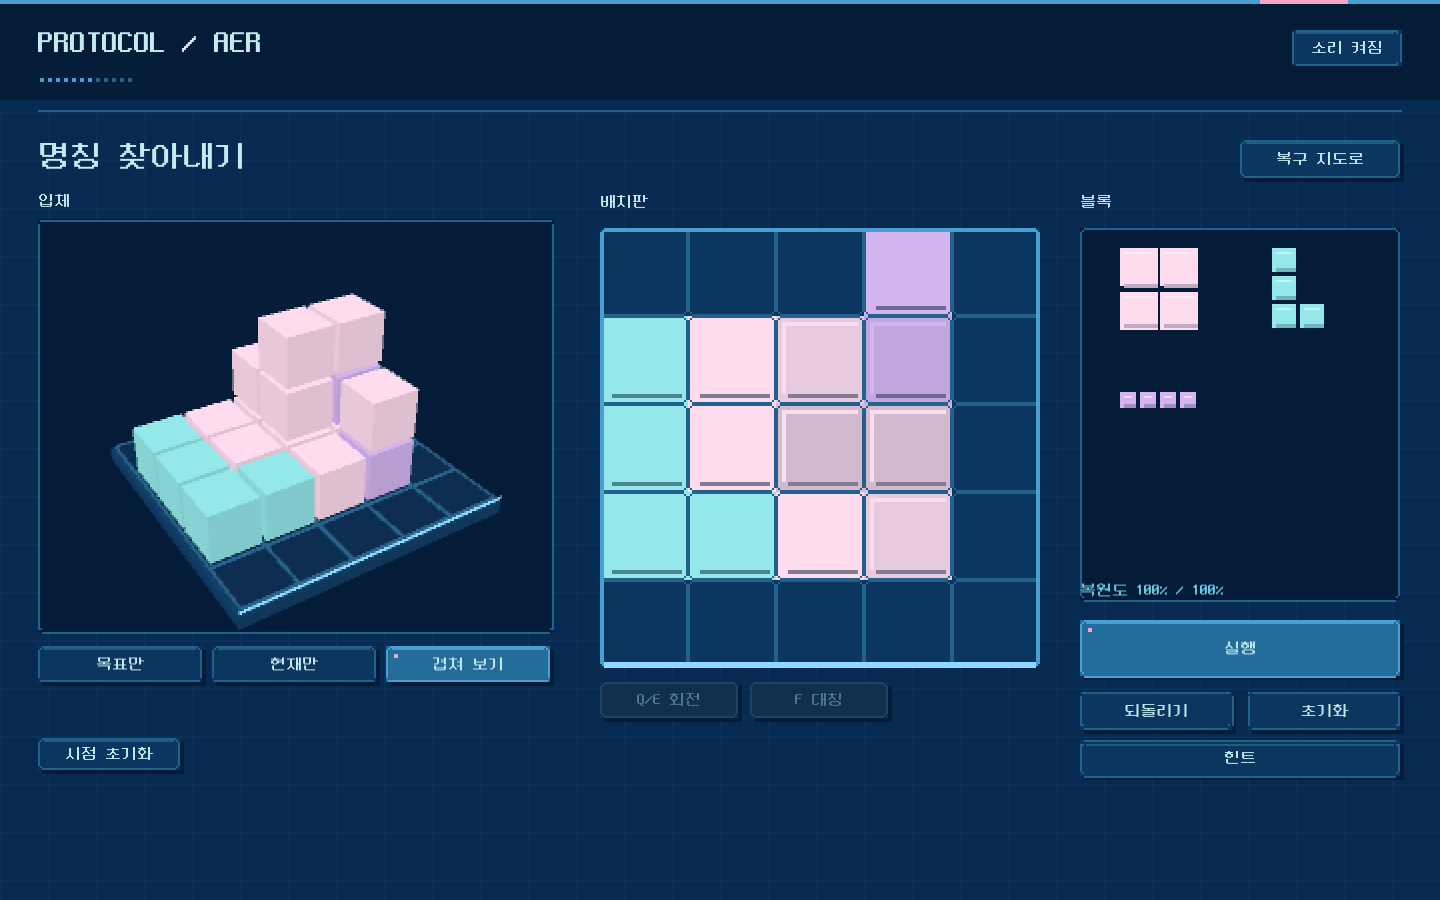
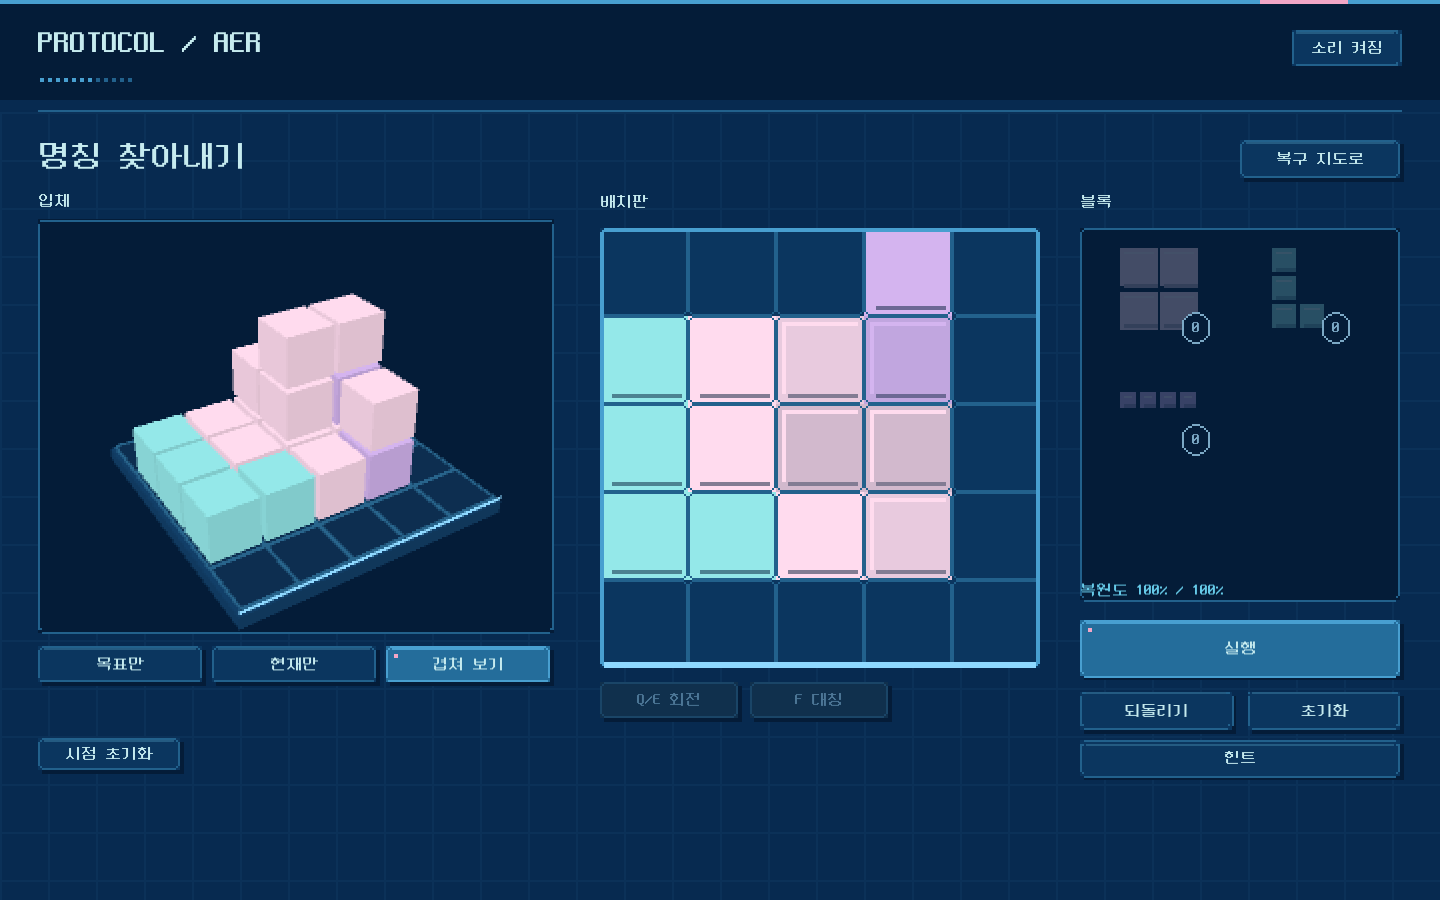
Limit non-weather mino stock and display remaining counts in pixel badges

Changed region(s): [[0.75, 0.2489, 0.8438, 0.3733], [0.875, 0.28, 0.9375, 0.3733], [0.7812, 0.4356, 0.8438, 0.4978]]

diff --git a/Assets/Scripts/ProtocolAer.cs b/Assets/Scripts/ProtocolAer.cs
@@ -148,6 +148,8 @@ public sealed class ProtocolAer:MonoBehaviour
     }
     string Lesson()=>stageIndex<3?new[]{"블록을 클릭한 뒤 배치판을 클릭하세요.","같은 칸에 겹치면 높아집니다.","겹침으로 목표 모양을 만드세요."}[stageIndex]:Stage.Weather?"복원도 "+Stage.ClearPercent+"% 이상":"";
     static Rect TrayBlock(int index)=>new Rect(1119+(index%2)*139,249+(index/2)*112,84,84);
+    int RemainingStock(int action)=>Stage.LimitedSupply?Math.Max(0,Stage.Remaining(board,action)-(held==action?1:0)):-1;
+    static Rect TrayHit(int index){var r=TrayBlock(index);return new Rect(r.x-2,r.y-2,r.width+14,r.height+14);}
     List<int> TrayActions()
     {
         var result=new List<int>();foreach(int action in new[]{4,3,2,1,0})if(Stage.Allows(action))result.Add(action);return result;
@@ -155,12 +157,12 @@ public sealed class ProtocolAer:MonoBehaviour
     bool TrySelectBlockAt(Vector2 point)
     {
         if(screen!=ScreenMode.Puzzle||executing||success||newMino>=0)return false;
-        var actions=TrayActions();for(int i=0;i<actions.Count;i++)if(TrayBlock(i).Contains(point)){Select(actions[i]);return held>=0;}
+        var actions=TrayActions();for(int i=0;i<actions.Count;i++)if(TrayHit(i).Contains(point)){Select(actions[i]);return held>=0;}
         return false;
     }
     void Select(int action=4)
     {
-        if(executing||success||newMino>=0||!Stage.Allows(action))return;
+        if(executing||success||newMino>=0||!Stage.CanPlace(board,action))return;
         ClearHint();held=action;orientation=(Vector2Int[])EveningBoard.Shapes[action].Clone();anchorIndex=0;
         if(viewMode==0)viewMode=2;Rebuild();Sound();message="";
     }
@@ -168,7 +170,7 @@ public sealed class ProtocolAer:MonoBehaviour
     bool Place()
     {
         if(held<0)return false;
-        if(!Stage.Allows(held)||!board.TryPlace(held,Candidate(),out _)){ReturnHeld();Sound();message="";return false;}
+        if(!Stage.CanPlace(board,held)||!board.TryPlace(held,Candidate(),out _)){ReturnHeld();Sound();message="";return false;}
         held=-1;ClearHint();evaluated=restored=false;Sound();Rebuild();message="";return true;
     }
     void ClearHint(){hint=-1;hintPieceId=-1;}
@@ -253,7 +255,7 @@ public sealed class ProtocolAer:MonoBehaviour
     }
     Vector2Int[] ValidPreviewCells()
     {
-        if(screen!=ScreenMode.Puzzle||held<0||!onGrid||executing||success||newMino>=0||!Stage.Allows(held))return null;
+        if(screen!=ScreenMode.Puzzle||held<0||!onGrid||executing||success||newMino>=0||!Stage.CanPlace(board,held))return null;
         var cells=Candidate();return EveningBoard.ValidCells(cells)?cells:null;
     }
     void RefreshPlacementPreview()
@@ -546,14 +548,32 @@ public sealed class ProtocolAer:MonoBehaviour
         {
             var shape=TrayBlock(i);bool selected=held==actions[i];
             DrawMino(shape,actions[i],selected);
+            if(Stage.LimitedSupply&&Stage.Remaining(board,actions[i])==0)Fill(shape,new Color(Deep.r,Deep.g,Deep.b,.75f));
             if(selected)Border(new Rect(shape.x-6,shape.y-6,96,96),Ink,4);
-            if(shape.Contains(Pointer())&&!executing&&!success)Border(new Rect(shape.x-4,shape.y-4,92,92),Sky);
+            if(TrayHit(i).Contains(Pointer())&&!executing&&!success&&Stage.CanPlace(board,actions[i]))Border(new Rect(shape.x-4,shape.y-4,92,92),Sky);
+            if(Stage.LimitedSupply)DrawStockBadge(new Rect(shape.xMax-22,shape.yMax-20,32,32),RemainingStock(actions[i]));
         }
         Text(new Rect(1080,575,320,29),"복원도 "+Stage.Similarity(board)+"% / "+Stage.ClearPercent+"%",18,Blue,true);
         if(Button(new Rect(1080,620,320,57),executing?"실행 중…":"실행",!executing&&!success&&held<0&&board.Pieces.Count>0,true))Execute();
         if(Button(new Rect(1080,691,153,38),"되돌리기",board.Pieces.Count>0&&!executing&&!success))Undo();
         if(Button(new Rect(1247,691,153,38),"초기화",!executing&&!success))ResetBoard();
         if(Button(new Rect(1080,741,320,36),"힌트",!executing&&!success))RequestHint();
+    }
+    void PixelDisc(Rect r,Color color)
+    {
+        float radius=r.width/2;
+        for(float row=0;row<r.height;row+=2)
+        {
+            float dy=row+1-radius,half=Mathf.Floor(Mathf.Sqrt(Mathf.Max(0,radius*radius-dy*dy))/2)*2;
+            if(half>0)Fill(new Rect(r.center.x-half,r.y+row,half*2,2),color);
+        }
+    }
+    void DrawStockBadge(Rect r,int count)
+    {
+        r.x=Snap(r.x);r.y=Snap(r.y);
+        PixelDisc(r,count==0?Muted:Ink);
+        PixelDisc(new Rect(r.x+2,r.y+2,r.width-4,r.height-4),Deep);
+        Text(new Rect(r.x,r.y-1,r.width,r.height),count.ToString(),16,count==0?Muted:Color.white,true,TextAnchor.MiddleCenter);
     }
     void DrawMino(Rect area,int action,bool selected=false)
     {
@@ -724,6 +744,36 @@ public sealed class ProtocolAer:MonoBehaviour
         EnterStage(0);
         Debug.Log("AER_HINTS_PASSED: all 13 stages solved through production hints/click anchors; rotation and S/T types; duplicate placements; wrong-plan correction; undo; S-free wind rejected");
     }
+    IEnumerator CheckStockInteraction(string directory)
+    {
+        EnterStage(1);newMino=-1;
+        if(RemainingStock(4)!=2)throw new Exception("Initial finite stock incorrect");
+        yield return Shot(directory,"stock-initial");
+        Select(4);if(RemainingStock(4)!=1)throw new Exception("Holding must reserve one stock");
+        ReturnHeld();if(RemainingStock(4)!=2)throw new Exception("Returning must restore stock");
+        for(int i=0;i<2;i++){Select(4);hover=new Vector2Int(1,1);if(!Place())throw new Exception("Finite stock placement failed");}
+        if(RemainingStock(4)!=0||Stage.CanPlace(board,4))throw new Exception("Stock did not exhaust");
+        TrySelectBlockAt(TrayBlock(0).center);if(held>=0)throw new Exception("Exhausted tray must not select");
+        yield return Shot(directory,"stock-exhausted");
+        // Also reject a stale held selection at the production placement gate.
+        held=4;orientation=(Vector2Int[])EveningBoard.Shapes[4].Clone();anchorIndex=0;hover=new Vector2Int(1,1);
+        if(Place()||board.Count(4)!=2||held>=0)throw new Exception("Finite stock placement overflow");
+        PickUpAt(new Vector2Int(1,1));
+        if(board.Count(4)!=1||held!=4||RemainingStock(4)!=0)throw new Exception("Picking up must transfer, not duplicate, stock");
+        yield return Shot(directory,"stock-moving");
+        hover=new Vector2Int(2,1);if(!Place()||board.Count(4)!=2||RemainingStock(4)!=0)throw new Exception("Moving consumed extra stock");
+        PickUpAt(new Vector2Int(1,1));hover=new Vector2Int(4,4);
+        if(Place()||held>=0||board.Count(4)!=1||RemainingStock(4)!=1)throw new Exception("Invalid placement must return reserved stock");
+        Undo();if(board.Count(4)!=0||RemainingStock(4)!=2)throw new Exception("Undo must return stock");
+        Select(4);hover=new Vector2Int(1,1);Place();ResetBoard();
+        if(board.Count(4)!=0||RemainingStock(4)!=2)throw new Exception("Reset must restore the complete supply");
+        EnterStage(7);newMino=-1;
+        for(int i=0;i<12;i++){Select(4);hover=new Vector2Int(1,1);if(!Place())throw new Exception("Weather supply must remain unlimited");}
+        if(board.Count(4)!=12||RemainingStock(4)!=-1||!Stage.CanPlace(board,4))throw new Exception("Weather stock limit introduced");
+        ResetBoard();yield return Shot(directory,"stock-weather-unlimited");
+        EnterStage(0);
+        Debug.Log("AER_STOCK_PASSED: finite non-weather quotas, held reservations, zero selection/placement guard, pickup/move/invalid return/undo/reset, unlimited weather");
+    }
     IEnumerator Capture(string directory)
     {
         Directory.CreateDirectory(directory);screen=ScreenMode.Title;yield return Shot(directory,"01-title");
@@ -733,12 +783,7 @@ public sealed class ProtocolAer:MonoBehaviour
         yield return CheckFullOrbit(directory);
         yield return CheckPlacementInteraction(directory);
         yield return CheckHintInteraction(directory);
-        for(int i=0;i<12;i++)
-        {
-            if(TrayActions().Count!=1||!TrySelectBlockAt(TrayBlock(0).center))throw new Exception("Unlimited O selection failed");
-            hover=new Vector2Int(1,1);if(!Place())throw new Exception("Unlimited O placement failed");
-        }
-        if(board.Count(4)!=12||TrayActions().Count!=1)throw new Exception("Tray must show types, not remaining counts");
+        yield return CheckStockInteraction(directory);
         ResetBoard();
         Select(4);hover=new Vector2Int(0,0);if(!Place())throw new Exception("Failed-preview setup rejected");
         Execute();while(executing){UpdateGrowth();yield return null;}
@@ -785,7 +830,7 @@ public sealed class ProtocolAer:MonoBehaviour
         if(NextMain()!=cleared.Length||ClearCount()!=10)throw new Exception("Must finish exactly 8 names and 2 weather stages");
         SetScreen(ScreenMode.Map);yield return Shot(directory,"08-map-complete");
         SetScreen(ScreenMode.End);yield return Shot(directory,"09-end");
-        Debug.Log("AER_RUNTIME_PASSED: normal near-large perspective in four orbit quadrants; fixed bottom/front marker; 70% preview and opaque restoration; tutorial and all 10 main stages; unlimited supply; no persistence.");Application.Quit();
+        Debug.Log("AER_RUNTIME_PASSED: normal near-large perspective in four orbit quadrants; fixed bottom/front marker; 70% preview and opaque restoration; tutorial and all 10 main stages; finite non-weather stock and unlimited weather; no persistence.");Application.Quit();
     }
     IEnumerator Shot(string directory,string name)
     {

diff --git a/Assets/Editor/AerBuilder.cs b/Assets/Editor/AerBuilder.cs
@@ -52,7 +52,7 @@ public static class AerBuilder
         foreach(var stage in AerStages.All)
         {
             var board=new EveningBoard();foreach(var step in stage.Solution)
-            {if(!stage.Allows(step.Action)||!board.TryPlace(step.Action,step.Cells(),out _))throw new Exception("Invalid or unavailable solution: "+stage.Name);}
+            {if(!stage.CanPlace(board,step.Action)||!board.TryPlace(step.Action,step.Cells(),out _))throw new Exception("Invalid or unavailable solution: "+stage.Name);}
             if(!stage.Complete(board)||stage.Similarity(board)!=100)throw new Exception("Solution evaluation");
             board.Undo();if(stage.Similarity(board)>=100||!stage.Weather&&stage.Complete(board))throw new Exception("Incomplete exact board accepted");
         }
@@ -118,6 +118,20 @@ public static class AerBuilder
         Add(eight,4,0,0);
         if(final90.Similarity(eight)!=90||!final90.Complete(eight))throw new Exception("Final must accept 90 percent");
         if(AerStages.All[12].ClearPercent!=90||AerStages.All[7].ClearPercent!=85)throw new Exception("Weather stage thresholds changed");
+        foreach(var stage in AerStages.All)
+        {
+            if(stage.LimitedSupply==stage.Weather)throw new Exception("Only weather may have unlimited supply");
+            var stock=new EveningBoard();foreach(var step in stage.Solution)stock.TryPlace(step.Action,step.Cells(),out _);
+            if(!stage.WithinSupply(stock))throw new Exception("Reference solution exceeds supply");
+            if(stage.LimitedSupply)
+            {
+                int action=stage.Solution[0].Action;
+                if(stage.Remaining(stock,action)!=0||stage.CanPlace(stock,action))throw new Exception("Stock should be exhausted by the reference solution");
+                stock.TryPlace(action,stage.Solution[0].Cells(),out _);
+                if(stage.WithinSupply(stock)||stage.Complete(stock))throw new Exception("Over-quota solution accepted");
+            }
+            else if(stage.Remaining(stock,4)!=-1||!stage.CanPlace(stock,4))throw new Exception("Weather supply must remain unlimited");
+        }
         var unlimited=new EveningBoard();for(int i=0;i<100;i++)if(!unlimited.TryPlace(4,(Vector2Int[])EveningBoard.Shapes[4].Clone(),out _))throw new Exception("Unexpected piece cap");
         if(unlimited.MaxHeight!=100)throw new Exception("Unlimited overlap failed");
         var empty=new EveningBoard();Add(empty,0,0,0);Add(empty,1,0,0);

diff --git a/Assets/Scripts/AerStages.cs b/Assets/Scripts/AerStages.cs
@@ -14,6 +14,7 @@ public sealed class AerStage
     public readonly Step[] Solution;
     public readonly int[,] Target=new int[5,5];
     public int Supply=>Solution.Length;
+    public bool LimitedSupply=>!Weather;
     public bool Weather=>Code.StartsWith("WEATHER");
     public int ClearPercent=>Code=="WEATHER-02"?90:Weather?85:100;
     public AerStage(string name,string code,string lesson,params Vector2Int[] solution):this(name,code,lesson,Array.ConvertAll(solution,p=>new Step(4,p.x,p.y))){}
@@ -46,6 +47,13 @@ public sealed class AerStage
         int index=Array.IndexOf(AerStages.All,this);
         return action==4||action==3&&index>=5||action==2&&index>=8||action==1&&index>=10||action==0&&index>=11;
     }
+    public int Remaining(EveningBoard board,int action)=>LimitedSupply?Math.Max(0,SupplyOf(action)-board.Count(action)):-1;
+    public bool CanPlace(EveningBoard board,int action)=>Allows(action)&&(!LimitedSupply||Remaining(board,action)>0);
+    public bool WithinSupply(EveningBoard board)
+    {
+        for(int a=0;a<5;a++)if(board.Count(a)>0&&(!Allows(a)||LimitedSupply&&board.Count(a)>SupplyOf(a)))return false;
+        return true;
+    }
     public bool RequiredMinoUsed(EveningBoard board)
     {
         if(RequiredAction<0)return true;if(board.Count(RequiredAction)==0)return false;
@@ -54,7 +62,7 @@ public sealed class AerStage
         for(int x=0;x<5;x++)for(int y=0;y<5;y++)if(actual[x,y]!=other[x,y])return true;
         return false;
     }
-    public bool Complete(EveningBoard board)=>board.Pieces.Count>0&&RequiredMinoUsed(board)&&(Weather?Similarity(board)>=ClearPercent:Differences(board)==0);
+    public bool Complete(EveningBoard board)=>board.Pieces.Count>0&&WithinSupply(board)&&RequiredMinoUsed(board)&&(Weather?Similarity(board)>=ClearPercent:Differences(board)==0);
 }
 
 public static class AerStages

diff --git a/docs/Development.md b/docs/Development.md
@@ -8,7 +8,7 @@ Animated title → terminal → optional three-step tutorial → radar map with 
 
 Targets are generated from example solutions. Names require exact height matches, and introduced operators must change the output. Sunlight requires 85% and final rainfall requires 90% volume IoU without a special effect condition. O/L/I add +1. S levels its four cells to their original minimum; T levels its four cells to their original maximum. All operators sample the same ordinary-only height map, including empty cells at zero. S/T intersections preserve the original height. Overlapping S candidates take the lower candidate, T candidates take the higher candidate. There is no chaining or placement-order dependency. T-created layers, including in empty cells, use T's yellow color; lowering removes upper layers. UI notices explain the new effects and shared-cell rule.
 
-Unlocks are O initially, L in name 3, I in name 5, S in name 7 and T in name 8. Supply is unlimited; no save state exists. Relay keeps its original target but now offers only L, with a four-L example solution including one mirrored placement. Hint orientation and production replay both apply mirror before rotation. Other early targets, tutorials and the first weather are unchanged. Waterworks now uses three O, one L and one vertical I: one more ordinary piece than the archive, preserving an I rotation while simplifying the old multiple L/I orientation combinations. Difficulty comparisons are design targets, not a substitute for playtesting.
+Unlocks are O initially, L in name 3, I in name 5, S in name 7 and T in name 8. Non-weather stages provide per-type quotas from the reference solution. Weather remains unlimited. No save state exists. Relay keeps its original target but now offers only L, with a four-L example solution including one mirrored placement. Hint orientation and production replay both apply mirror before rotation. Other early targets, tutorials and the first weather are unchanged. Waterworks now uses three O, one L and one vertical I: one more ordinary piece than the archive, preserving an I rotation while simplifying the old multiple L/I orientation combinations. Difficulty comparisons are design targets, not a substitute for playtesting.
 
 Windway and control room each use three ordinary pieces and one operator. Windway provides only O/L/S: its exact O/O/L/S solution needs no I. Control room provides O/I/T; its four-piece example solution uses two O pieces, one horizontal I along the lower edge, and one T leveling the upper overlap. All three types contribute, while the maximum target height is two. These stage-specific teaching sets do not change later unlocks; the finale restores all five types. S introduction omits T; mixed intersections are introduced with T. The final rainfall uses four ordinary pieces and S/T, all in default orientation. Both effects matter in its reference solution. Two common cells preserve original heights while exclusive S cells lower and exclusive T cells raise. The old whole-mino inversion, doubling and -2 rules have been removed.
 ## Controls
@@ -47,8 +47,10 @@ Add this folder in Unity Hub and open Assets/Scenes/Main.unity. Runtime bootstra
 
 Source model `EveningBoard.cs` reuses the earlier project's placement/rotation/height code. New stage definitions are in `AerStages.cs`; screen flow, interface and runtime are in `ProtocolAer.cs`.
 
-Checks validate all 13 example solutions, unlock timing, compulsory new effects, 100-piece unlimited overlap, exact palette values, source colors, local S minimum, T maximum, original mixed intersections, new voxel geometry and order independence. Capture mode (`-aer-capture <folder>`) verifies repeat selection beyond old limits and the persistent type-only tray, then runs tutorial plus all ten main stages through the production selection, rotation, placement and execution methods, capturing radar progression and new-module notices.
+Checks validate all 13 example solutions, unlock timing, compulsory new effects, 100-piece unlimited overlap, exact palette values, source colors, local S minimum, T maximum, original mixed intersections, new voxel geometry and order independence. Capture mode (`-aer-capture <folder>`) verifies finite stock reservations, exhaustion guards, pickup/move/invalid return/undo/reset, and unlimited weather selection, then runs tutorial plus all ten main stages through the production selection, rotation, placement and execution methods, capturing radar progression and new-module notices.
 
 The checks also verify the intended name/weather complexity envelope, transparent preview materials before/during execution and after failure, and opaque materials only after successful restoration. Before/after screenshots are captured for name regions 4 and 8.
 
 Runtime placement checks cover live hover and moving existing pieces, noncommitting S/T effects, rotation/mirroring, invalid clicks both inside and outside the board, and preserving selection while interacting with controls.
+
+Non-weather stock is derived from reference counts minus committed pieces and a held reservation. The board model stays unbounded for weather; stage CanPlace and WithinSupply enforce quotas at selection, preview, placement and clear validation. Pixel circular badges at the tray icons show remaining counts, depleted icons are dimmed, and weather omits badges. Geometry, effect rules and clear thresholds are unchanged.
